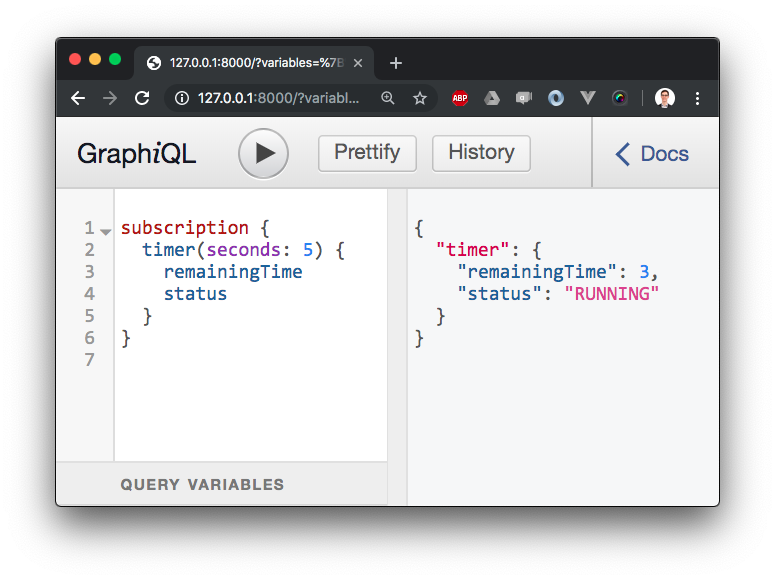
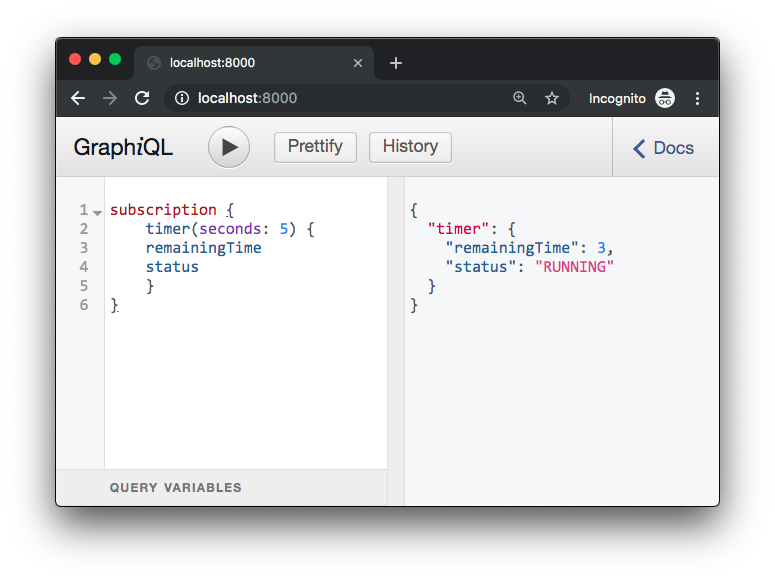
Fix subscriptions example and screenshot

diff --git a/README.md b/README.md
@@ -331,7 +331,20 @@ async def on_timer(parent, args, context, info):
         await asyncio.sleep(1)
     yield {"remainingTime": 0, "status": "DONE"}
 
-app = TartifletteApp(sdl=sdl, subscriptions=True)
+app = TartifletteApp(
+    sdl=sdl,
+    subscriptions=True,
+    graphiql=GraphiQL(
+        default_query="""
+        subscription {
+            timer(seconds: 5) {
+            remainingTime
+            status
+            }
+        }
+        """
+    ),
+)
 ```
 
 > **Note**: the subscriptions endpoint is exposed on `/subscriptions` by default.
